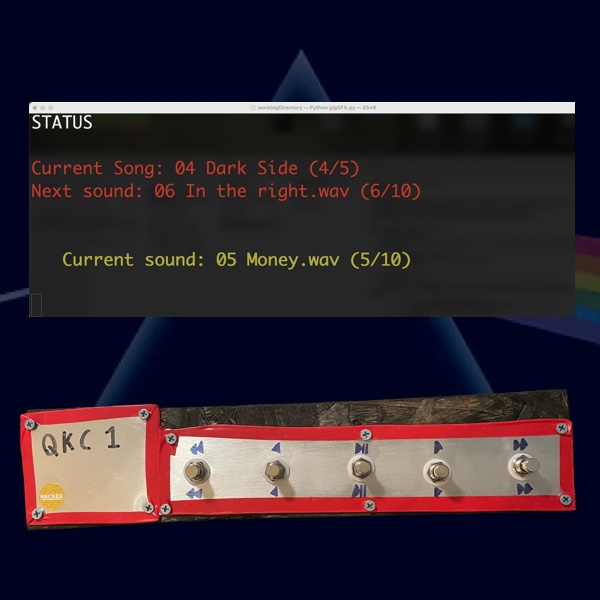
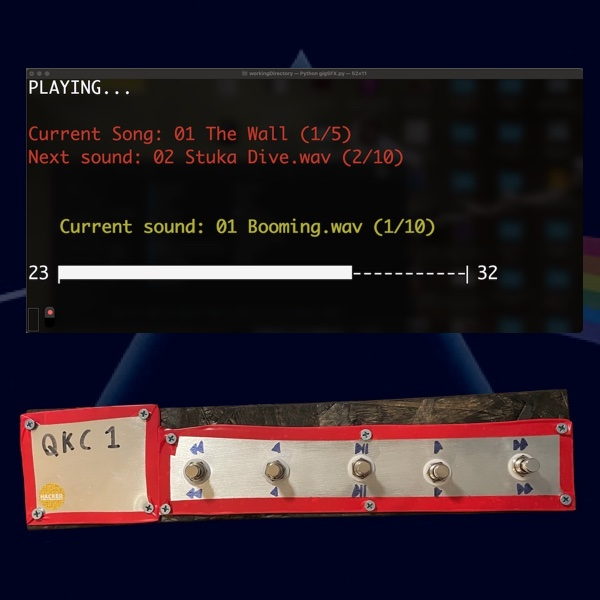
updated QKC page and workshop status

Changed region(s): [[0.03, 0.09, 0.99, 0.57]]

diff --git a/technician/customWork/02CustomMIDIController/log.html b/technician/customWork/02CustomMIDIController/log.html
@@ -1,0 +1,31 @@
+<!doctype html>
+<html lang="en-GB">
+<head>
+<title>Custom MIDI Controller Build Log</title>
+</head>
+<body>
+	
+<meta name="viewport" content="width=device-width, initial-scale=1.0">
+
+<link rel="stylesheet" href="../../../style.css">
+<base target="_parent">
+
+<h1 style="text-align:center;">Oliver Hagen Custom Builds</h1>
+
+<h2 style="text-align:center;">Custom MIDI Controller</h2>	
+
+<img src="current.jpg"></img>
+
+<p style="text-align:left;">This page contains a log of progress made on your MIDI controller, so that there's transparent documentation of the entire process. It will be updated any time I do significant work on the project. If you have any questions, feel free to <a href="mailto:[email redacted]">contact me</a>.</p>
+
+<h2>Build Log</h2>
+<h3>2026-06-15</h3>
+<p>Created webpage and build log.</p>
+
+<hr>
+<p><i>I do not and will not knowingly use Artificial Intelligence in any of my endeavours.</i></p>
+<p>Last updated 2026-06-15</p>
+
+</body>
+</html>
+

diff --git a/technician/workshopStatus.html b/technician/workshopStatus.html
@@ -21,19 +21,19 @@
 
 	<table style="text-align:left; border-spacing:10px">
 	  <tr>
-		<th>Repair Reference</th>
+		<th>Workshop Job Number</th>
 		<th>Last Updated</th>
 	    <th>Repair Brief</th>
 		<th>Status</th>
 	  </tr>
-<tr><td>H7512</td><td>2026-06-05</td><td>Setup, restring, fix loose output jack</td><td style="background-color:lime">Fixed loose output jack, replaced missing bridge pin, cleaned+restrung. Set up</td></tr><tr><td>H7513</td><td>2026-06-05</td><td>Restring, Floyd Rose is imbalanced</td><td style="background-color:lime">Restrung, rebalanced Floyd Rose</td></tr><tr><td>H7492</td><td>2026-06-04</td><td>clean, restring and setup</td><td style="background-color:lime">Deep-cleaned, restrung, adjusted neck relief. Lowered action at saddle, adjusted low E saddle break angle, installed strap button</td></tr><tr><td>H7491</td><td>2026-06-02</td><td>Setup, electronics issue</td><td style="background-color:lime">Replaced faulty output jack. Cleaned, kept original strings as per customer's wishes. Repaired and re-installed pickup, setup</td></tr><tr><td>H7489</td><td>2026-06-02</td><td>Swap single coil bridge pickup for humbucker</td><td style="background-color:lime">Ordered new pickguard, swapped all electronics and installed new pickup. Installed new pickguard.</td></tr><tr><td>H7494</td><td>2026-06-02</td><td>Restore old violin for display cabinet</td><td style="background-color:gold">Applied peg paste to stuck tuners, cleaned neck. Cleaning body...</td></tr><tr><td>H7490</td><td>2026-05-26</td><td>Setup, electronics issue</td><td style="background-color:lime">Fixed output jack internal short, all other electronics OK. Cleaned + restring, setup</td></tr><tr><td>H7483</td><td>2026-05-19</td><td>Bulk repair; see separate sheet</td><td style="background-color:gold">See separate sheet</td></tr></table><br><p>Last Updated 2026-06-06 01:23:[phone redacted]</p><p style="color:red"><b>This site is new- feel free to report any obvious errors via the contact links below</b></p>
+<tr><td>H7528</td><td>2026-06-15</td><td>Restring and setup</td><td style="background-color:gold">Deep cleaned, polished frets and oiled fretboard. Restrung, setup in progress...</td></tr><tr><td>H7532</td><td>2026-06-15</td><td>Restring and setup with much heavier gauge strings</td><td style="background-color:gold">Cleaned, polished frets and oiled fretboard. Restrung, rebalanced tremolo, widened nut slots. Tightened loose strap button and output jack. Seting up...</td></tr><tr><td>H7494</td><td>2026-06-15</td><td>Restore old violin for display cabinet</td><td style="background-color:gold">Applied peg paste to stuck tuners, cleaned neck. Cleaning body...</td></tr><tr><td>H7512</td><td>2026-06-05</td><td>Setup, restring, fix loose output jack</td><td style="background-color:lime">Fixed loose output jack, replaced missing bridge pin, cleaned+restrung. Set up</td></tr><tr><td>H7513</td><td>2026-06-05</td><td>Restring, Floyd Rose is imbalanced</td><td style="background-color:lime">Restrung, rebalanced Floyd Rose</td></tr><tr><td>H7489</td><td>2026-06-02</td><td>Swap single coil bridge pickup for humbucker</td><td style="background-color:lime">Ordered new pickguard, swapped all electronics and installed new pickup. Installed new pickguard.</td></tr><tr><td>H7483</td><td>2026-05-19</td><td>Bulk repair; see separate sheet</td><td style="background-color:gold">See separate sheet</td></tr></table><br><p>Last Updated 2026-06-15 23:51:[phone redacted]</p><p style="color:red"><b>This site is new- feel free to report any obvious errors via the contact links below</b></p>
 
 <h2>About:</h2>
 <p>This quick, simple website shows all repairs currently in progress in the workshop, along with their status. This is updated at the end of each working day, so check back for progress.</p>
-<p>If you don't see your Repair Reference Number in the list above, it's either not yet had work started, or has been completed and is awaiting collection. If you are unsure, feel free to get in touch via the details given below.</p>
+<p>If you don't see your Workshop Job Number in the list above, it's either not yet had work started, or has been completed and is awaiting collection. If you are unsure, feel free to get in touch via the details given below.</p>
 
 <h2>Contact Us:</h2>
-<p>Questions about the status of your instrument, or the repair services available? See below, and be sure to quote your Repair Reference Number for a quicker response.</p>
+<p>Questions about the status of your instrument, or the repair services available? See below, and be sure to quote your Workshop Job Number for a quicker response.</p>
 
 <h3>If your repair is via Hickies Music Shop:</h3>
 <p>Give the shop a ring on <b>01189 575 771</b>, or <a href="mailto:[email redacted]"><b>send an email</b></a>; someone will take a message and I'll get back to you ASAP. I usually work in the shop on all weekdays aside from Wednesdays.</p>

diff --git a/Making/QKC1/QKC1.html b/Making/QKC1/QKC1.html
@@ -72,7 +72,7 @@ Your browser does not support the video tag.
 <p style="text-align:center;">The finished device+my laptop has a spot in my keyboard setup in-between the stage piano and the synthesiser, on the 45 degree angle. It nestles in pretty 
 snugly, but is accessible enough. Audio comes out of my laptop's headphone jack and goes into my stage piano via the external audio input, allowing me control over the volume via a dedicated knob on the stage piano- useful for fades or unexpected volume level jumps. This increases my minimum plug socket requirement for the full rig to three (my laptop is ancient and the battery is no longer capable of holding enough charge for several hours of soundcheck + gig), so now I bring an extension cable of my own to gigs.</p>
 
-<p style="text-align:center;">Having used the QKC1 in a gig, I can attest that it does indeed do the job. The Pink Floyd songs that so need sound effects were all well-tended to, and the sound navigation was pretty usable. The only problems with the device at the moment are the inability to play multiple sounds at once (by design, so not a major issue provided additional demands don't come up in the future), and the fact that the CLI output is laggy, not updating consistently when I navigate between sounds. This only occurs when running the programme through the macOS Terminal app, not in IDLE. Not sure why- a problem for another day though, as it's easy enough to run through IDLE instead.</p>
+<p style="text-align:center;">Having used the QKC1 in a gig, I can attest that it does indeed do the job. The Pink Floyd songs that so need sound effects were all well-tended to, and the sound navigation was pretty usable. The only problems with the device were the inability to play multiple sounds at once (by design, so not a major issue provided additional demands don't come up in the future), and the fact that the CLI output was laggy, not updating consistently when I navigated between sounds. I solved this later with Pyglet's <code>pyglet.clock.schedule_interval(f,n)</code> function, which allows the scheduling of some function <code>f</code>, to be run every <code>n</code> seconds. This let me update the screen very regularly, and also let me add a progress bar so I could see how much time a sample has left.</p>
 
 <p style="text-align:center;">Additionally, I have adapted the QKC1 for use with Mr Pineapple (an originals band I play with) with a reversion back to the one-effect-per-button functionality of the original Splinters prototype, so that the lead singer/guitarist can stomp on one of the newly-labelled buttons to trigger a hard-coded sound effect without having to consult a screen or navigate around. That should make it's debut in early 2026, if all goes well. Nice to have made a useful little piece of gear, and hopefully it has many gigs ahead of it.</p>
 

diff --git a/technician/!StatusFormatter.py b/technician/!StatusFormatter.py
@@ -31,7 +31,7 @@ tableStart = """
 
 	<table style="text-align:left; border-spacing:10px">
 	  <tr>
-		<th>Repair Reference</th>
+		<th>Workshop Job Number</th>
 		<th>Last Updated</th>
 	    <th>Repair Brief</th>
 		<th>Status</th>
@@ -42,10 +42,10 @@ closingSection = """
 
 <h2>About:</h2>
 <p>This quick, simple website shows all repairs currently in progress in the workshop, along with their status. This is updated at the end of each working day, so check back for progress.</p>
-<p>If you don't see your Repair Reference Number in the list above, it's either not yet had work started, or has been completed and is awaiting collection. If you are unsure, feel free to get in touch via the details given below.</p>
+<p>If you don't see your Workshop Job Number in the list above, it's either not yet had work started, or has been completed and is awaiting collection. If you are unsure, feel free to get in touch via the details given below.</p>
 
 <h2>Contact Us:</h2>
-<p>Questions about the status of your instrument, or the repair services available? See below, and be sure to quote your Repair Reference Number for a quicker response.</p>
+<p>Questions about the status of your instrument, or the repair services available? See below, and be sure to quote your Workshop Job Number for a quicker response.</p>
 
 <h3>If your repair is via Hickies Music Shop:</h3>
 <p>Give the shop a ring on <b>01189 575 771</b>, or <a href="mailto:[email redacted]"><b>send an email</b></a>; someone will take a message and I'll get back to you ASAP. I usually work in the shop on all weekdays aside from Wednesdays.</p>